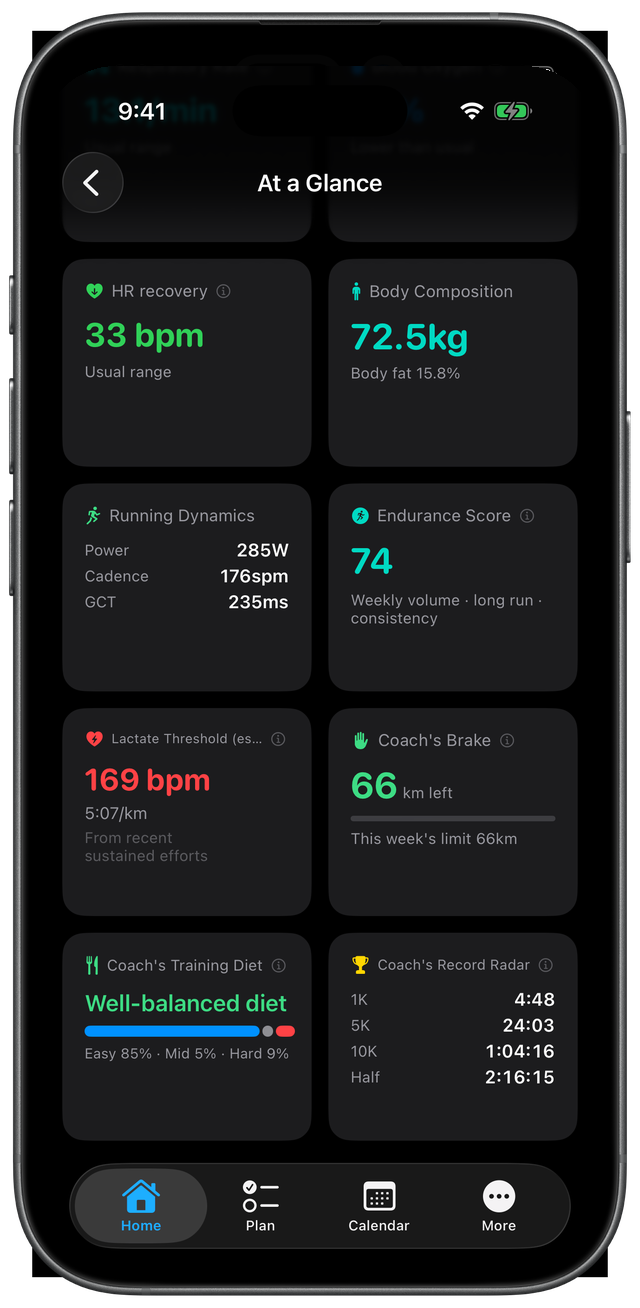
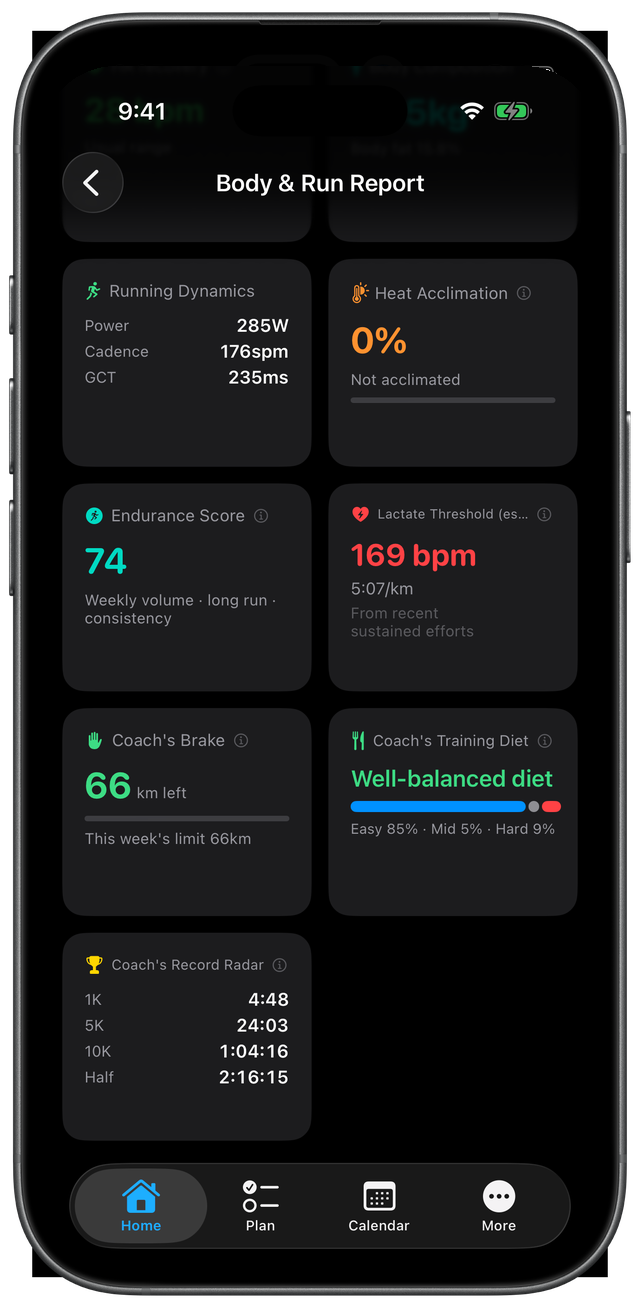
리포트 화면 개명 반영: 한눈에 보기 → 몸·러닝 리포트
앱 v2.10 홈 정리에서 상세 그리드 화면 이름이 바뀜(건강·러닝 상태를
자세히 본다는 뜻이 이름에서 읽히도록). co.c8h/alt 6개 언어 문구 갱신,
로케일별 실캡처 6장 재생성(새 내비게이션 타이틀 반영).

diff --git a/translations.js b/translations.js
@@ -713,7 +713,7 @@ Object.assign(window.RUNVIS_I18N.ko, {
   "co.c6p": "대회 16일 전부터, <b>대회일 예보(기온·습도)와 지금의 더위 적응도를 반영한</b> 예상 기록을 보여줍니다. 더위 비용이 얼마인지, 남은 기간 적응하면 얼마나 줄일 수 있는지까지.",
   "co.c7h": "🌙 코치 저녁 브리핑",
   "co.c7p": "내일 훈련이 있는 날 밤, <b>한 줄 브리핑</b>이 옵니다. \"내일은 인터벌. 오늘 밤 잘 자면 그대로 갑니다.\" 운동 후 체감 강도(RPE) 체크인은 Apple 건강의 <b>운동 노력도</b>로도 기록됩니다.",
-  "co.c8h": "🔥 한눈에 보기 — 22개 지표, 전부 설명 포함",
+  "co.c8h": "🔥 몸·러닝 리포트 — 22개 지표, 전부 설명 포함",
   "co.c8p": "<b>열 순응(더위 적응 0~100%)·지구력 점수·언덕 점수·젖산 역치(추정)</b>까지 한 화면 그리드로. 모든 지표에 ⓘ 도움말 — 젖산 역치가 뭔지 몰라도 탭 한 번이면 초보자 언어로 설명합니다. 지표를 탭하면 1일·7일·4주, 내 평소 범위 밴드 위에서 봅니다."
 });
 Object.assign(window.RUNVIS_I18N.en, {
@@ -734,7 +734,7 @@ Object.assign(window.RUNVIS_I18N.en, {
   "co.c6p": "From 16 days out, a finish prediction that <b>factors in the race-day forecast (heat, humidity) and your current heat adaptation</b>. See what the weather costs — and how much adapting in the time left could claw back.",
   "co.c7h": "🌙 Coach's Evening Briefing",
   "co.c7p": "The night before a training day, <b>one line arrives</b>: \"Tomorrow is intervals. Sleep well tonight and we go as planned.\" Your post-run effort check-in is also recorded to Apple Health as a <b>workout effort score</b>.",
-  "co.c8h": "🔥 At a Glance — 22 metrics, all explained",
+  "co.c8h": "🔥 Body & Run Report — 22 metrics, all explained",
   "co.c8p": "<b>Heat adaptation (0–100%), endurance score, hill score, lactate threshold (estimated)</b> — one grid. Every metric has an ⓘ helper: never heard of lactate threshold? One tap explains it in beginner language. Tap a metric to see 1-day, 7-day and 4-week views on your own normal-range band."
 });
 Object.assign(window.RUNVIS_I18N.ja, {
@@ -755,7 +755,7 @@ Object.assign(window.RUNVIS_I18N.ja, {
   "co.c6p": "レース16日前から、<b>当日の予報（気温・湿度）と今の暑熱順応を反映した</b>予想タイムを表示。暑さのコストがいくらか、残り期間で順応すればどれだけ縮むかまで。",
   "co.c7h": "🌙 コーチの夜ブリーフィング",
   "co.c7p": "翌日にトレーニングがある夜、<b>ひと言ブリーフィング</b>が届きます。「明日はインターバル。今夜よく眠ればこのまま行きます。」運動後の体感強度チェックインはApple ヘルスケアの<b>ワークアウト努力スコア</b>にも記録されます。",
-  "co.c8h": "🔥 ひと目でわかる — 22指標、すべて説明つき",
+  "co.c8h": "🔥 からだ・ランレポート — 22指標、すべて説明つき",
   "co.c8p": "<b>暑熱順応（0〜100%）・持久力スコア・ヒルスコア・乳酸性閾値（推定）</b>まで1画面のグリッドに。全指標にⓘヘルプ — 乳酸性閾値を知らなくてもタップ1回で初心者の言葉で説明。指標をタップすると1日・7日・4週間、自分の普段の範囲バンドの上で見られます。"
 });
 Object.assign(window.RUNVIS_I18N.es, {
@@ -776,7 +776,7 @@ Object.assign(window.RUNVIS_I18N.es, {
   "co.c6p": "Desde 16 días antes, una predicción que <b>incorpora el pronóstico del día (calor, humedad) y tu adaptación al calor actual</b>. Ve cuánto cuesta el clima — y cuánto podrías recuperar adaptándote en el tiempo que queda.",
   "co.c7h": "🌙 Briefing nocturno del coach",
   "co.c7p": "La noche antes de entrenar, <b>llega una línea</b>: \"Mañana toca intervalos. Duerme bien y vamos según lo previsto.\" Tu check-in de esfuerzo también se registra en Apple Salud como <b>puntuación de esfuerzo</b>.",
-  "co.c8h": "🔥 De un vistazo — 22 métricas, todas explicadas",
+  "co.c8h": "🔥 Informe cuerpo y running — 22 métricas, todas explicadas",
   "co.c8p": "<b>Adaptación al calor (0–100%), resistencia, cuestas, umbral de lactato (estimado)</b> — en una sola cuadrícula. Cada métrica tiene su ⓘ: ¿nunca oíste hablar del umbral de lactato? Un toque lo explica en lenguaje de principiante. Toca una métrica y mírala a 1 día, 7 días y 4 semanas sobre tu banda de rango habitual."
 });
 Object.assign(window.RUNVIS_I18N.zh, {
@@ -797,7 +797,7 @@ Object.assign(window.RUNVIS_I18N.zh, {
   "co.c6p": "賽前16天起，提供<b>納入比賽日預報（氣溫・濕度）與當前熱適應</b>的預測成績。天氣要付出多少代價、剩餘時間內適應能追回多少，一目了然。",
   "co.c7h": "🌙 教練的晚間簡報",
   "co.c7p": "隔天有訓練的夜晚，<b>一句簡報</b>送達：「明天是間歇跑。今晚睡好，就照計畫進行。」跑後的體感強度檢查也會記錄到 Apple 健康的<b>體能消耗分數</b>。",
-  "co.c8h": "🔥 一目瞭然 — 22項指標，全附說明",
+  "co.c8h": "🔥 身體・跑步報告 — 22項指標，全附說明",
   "co.c8p": "<b>熱適應（0~100%）・耐力分數・坡度分數・乳酸閾值（推估）</b>全在一個網格。每項指標都有ⓘ說明 — 不知道乳酸閾值是什麼？點一下就用初學者的語言解釋。點指標可在自己的平常範圍帶上查看1日・7日・4週。"
 });
 Object.assign(window.RUNVIS_I18N.de, {
@@ -818,13 +818,13 @@ Object.assign(window.RUNVIS_I18N.de, {
   "co.c6p": "Ab 16 Tagen vor dem Rennen eine Zielzeit-Prognose, die <b>die Renntag-Vorhersage (Hitze, Luftfeuchte) und deine aktuelle Hitzeanpassung einrechnet</b>. Sieh, was das Wetter kostet — und wie viel Anpassung in der Restzeit zurückholen kann.",
   "co.c7h": "🌙 Coach-Abendbriefing",
   "co.c7p": "Am Abend vor einem Trainingstag <b>kommt eine Zeile</b>: \"Morgen sind Intervalle dran. Schlaf gut, dann ziehen wir es durch.\" Dein Anstrengungs-Check-in nach dem Lauf landet auch als <b>Trainingsanstrengung</b> in Apple Health.",
-  "co.c8h": "🔥 Auf einen Blick — 22 Kennzahlen, alle erklärt",
+  "co.c8h": "🔥 Körper- & Laufbericht — 22 Kennzahlen, alle erklärt",
   "co.c8p": "<b>Hitzeanpassung (0–100 %), Ausdauer-Score, Hügel-Score, Laktatschwelle (geschätzt)</b> — ein Raster. Jede Kennzahl hat ein ⓘ: nie von der Laktatschwelle gehört? Ein Tipp erklärt sie in Anfängersprache. Tippe eine Kennzahl und sieh 1 Tag, 7 Tage und 4 Wochen auf deinem persönlichen Normalbereichs-Band."
 });
 // 한눈에 보기 캡처 alt (로케일별)
-Object.assign(window.RUNVIS_I18N.ko, {"alt.phone.glance": "iPhone 한눈에 보기 — 열 순응·지구력·젖산 역치·코치 타일"});
-Object.assign(window.RUNVIS_I18N.en, {"alt.phone.glance": "iPhone At a Glance — heat adaptation, endurance, lactate threshold and coach tiles"});
-Object.assign(window.RUNVIS_I18N.ja, {"alt.phone.glance": "iPhone ひと目で見る — 暑熱順応・持久力・乳酸性閾値・コーチタイル"});
-Object.assign(window.RUNVIS_I18N.es, {"alt.phone.glance": "iPhone De un vistazo — adaptación al calor, resistencia, umbral de lactato y fichas del coach"});
-Object.assign(window.RUNVIS_I18N.zh, {"alt.phone.glance": "iPhone 一覽 — 熱適應・耐力・乳酸閾值・教練卡片"});
-Object.assign(window.RUNVIS_I18N.de, {"alt.phone.glance": "iPhone Auf einen Blick — Hitzeanpassung, Ausdauer, Laktatschwelle und Coach-Kacheln"});
+Object.assign(window.RUNVIS_I18N.ko, {"alt.phone.glance": "iPhone 몸·러닝 리포트 — 열 순응·지구력·젖산 역치·코치 타일"});
+Object.assign(window.RUNVIS_I18N.en, {"alt.phone.glance": "iPhone Body & Run Report — heat adaptation, endurance, lactate threshold and coach tiles"});
+Object.assign(window.RUNVIS_I18N.ja, {"alt.phone.glance": "iPhone からだ・ランレポート — 暑熱順応・持久力・乳酸性閾値・コーチタイル"});
+Object.assign(window.RUNVIS_I18N.es, {"alt.phone.glance": "iPhone Informe cuerpo y running — adaptación al calor, resistencia, umbral de lactato y fichas del coach"});
+Object.assign(window.RUNVIS_I18N.zh, {"alt.phone.glance": "iPhone 身體・跑步報告 — 熱適應・耐力・乳酸閾值・教練卡片"});
+Object.assign(window.RUNVIS_I18N.de, {"alt.phone.glance": "iPhone Körper- & Laufbericht — Hitzeanpassung, Ausdauer, Laktatschwelle und Coach-Kacheln"});

diff --git a/index.html b/index.html
@@ -536,11 +536,11 @@
 </div>
 <div class="cards" style="margin-top:20px">
 <div class="card reveal"><h3 data-i18n="co.c7h">🌙 코치 저녁 브리핑</h3><p data-i18n="co.c7p">내일 훈련이 있는 날 밤, <b>한 줄 브리핑</b>이 옵니다. "내일은 인터벌. 오늘 밤 잘 자면 그대로 갑니다." 운동 후 체감 강도(RPE) 체크인은 Apple 건강의 <b>운동 노력도</b>로도 기록됩니다.</p></div>
-<div class="card reveal"><h3 data-i18n="co.c8h">🔥 한눈에 보기 — 22개 지표, 전부 설명 포함</h3><p data-i18n="co.c8p"><b>열 순응(더위 적응 0~100%)·지구력 점수·언덕 점수·젖산 역치(추정)</b>까지 한 화면 그리드로. 모든 지표에 ⓘ 도움말 — 젖산 역치가 뭔지 몰라도 탭 한 번이면 초보자 언어로 설명합니다. 지표를 탭하면 1일·7일·4주, 내 평소 범위 밴드 위에서 봅니다.</p></div>
+<div class="card reveal"><h3 data-i18n="co.c8h">🔥 몸·러닝 리포트 — 22개 지표, 전부 설명 포함</h3><p data-i18n="co.c8p"><b>열 순응(더위 적응 0~100%)·지구력 점수·언덕 점수·젖산 역치(추정)</b>까지 한 화면 그리드로. 모든 지표에 ⓘ 도움말 — 젖산 역치가 뭔지 몰라도 탭 한 번이면 초보자 언어로 설명합니다. 지표를 탭하면 1일·7일·4주, 내 평소 범위 밴드 위에서 봅니다.</p></div>
 </div>
 <!-- 한눈에 보기 실캡처: 로케일별 언어 화면 (data-shot 스왑) -->
 <div class="phonerow reveal" style="margin-top:44px;justify-content:center">
-<div class="phone-frame"><img alt="iPhone 한눈에 보기 — 열 순응·지구력·젖산 역치·코치 타일" data-i18n-attr="alt:alt.phone.glance" loading="lazy" src="assets/framed-phone-glance.png" data-shot="framed-phone-glance"/></div>
+<div class="phone-frame"><img alt="iPhone 몸·러닝 리포트 — 열 순응·지구력·젖산 역치·코치 타일" data-i18n-attr="alt:alt.phone.glance" loading="lazy" src="assets/framed-phone-glance.png" data-shot="framed-phone-glance"/></div>
 </div>
 </div>
 </section>
